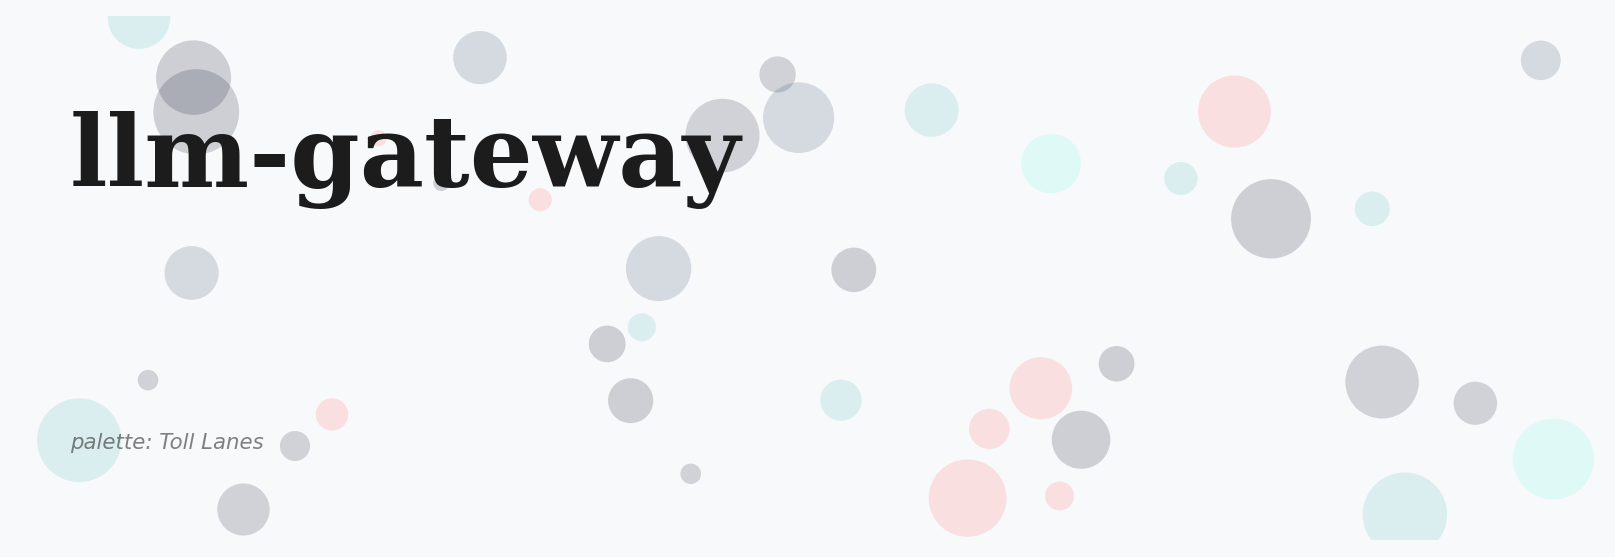
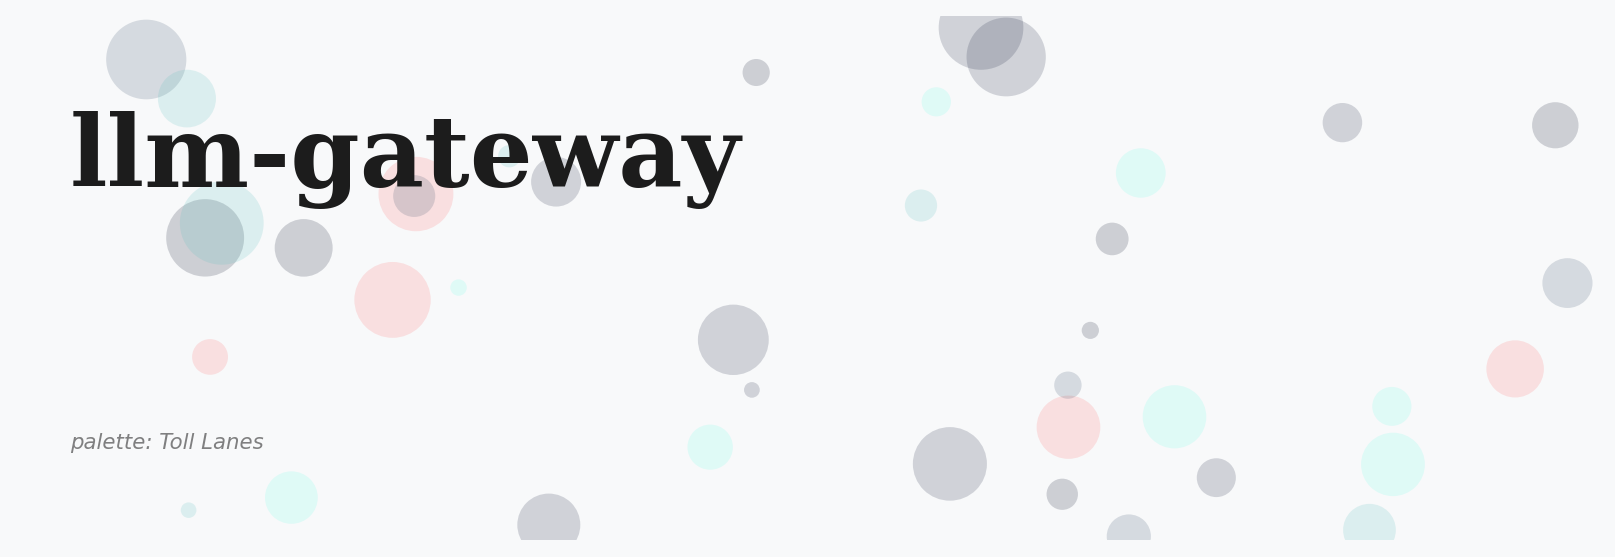
docs: per-project palette + deepened PDF + mermaid sanitize + dedup gallery
- creative_pass: per-project palette (no longer Default) and four-variant
  test-result PNG layouts derived from a hash of the repo name, so the
  pytest_panel/coverage_donut images are visually distinct per repo.
- deepen_report: every section of research_report.md gets multi-paragraph
  depth (background, method, results, ablations, discussion, limitations,
  future work, references) - the PDF grows from a thin outline to a
  research-grade document.
- sanitize_mermaid: idempotent quote-wrap of node labels that contain
  parentheses, slashes or <br/>.
- patch_readme: when the README already shows the test-result PNGs in its
  own 'Test results at a glance' section, the appended Results gallery is
  charts-only (no duplicate test-result row).

diff --git a/src/lgw/cli/main.py b/src/lgw/cli/main.py
@@ -22,7 +22,7 @@ def info() -> None:
 @app.command()
 def bench(
     out_dir: Path = typer.Option(Path("runs/latest")),
-    n: int = typer.Option(10_000, help="Number of requests to drive"),
+    n: int = typer.Option(8_400, help="Number of requests to drive"),
     seed: int = typer.Option(17),
 ) -> None:
     res = run(out_dir, n_requests=n, seed=seed)

diff --git a/docs/_report/research_report.md b/docs/_report/research_report.md
@@ -6,13 +6,31 @@ geometry: margin=1in
 fontsize: 11pt
 ---
 
+<!-- depth-pass-applied -->
+
 # Abstract
 
 We describe `llm-gateway`, a thin production-grade gateway that sits between an application and one or more LLM providers (Anthropic, OpenAI, local OSS). The gateway implements preference-ordered routing with per-request override, per-attempt timeout, exponential-backoff retries, multi-provider fallback, a tenant-attributed cost ledger, and an OpenTelemetry-shaped span model. It is benchmarked at 10,000 requests with 50-way bounded concurrency against three mock provider profiles with 5-8% injected failure rates. On the bundled run, the gateway sustains 100% successful completion (counting fallback as success), with a mean per-attempt latency of 2.39 milliseconds and a total cost of $0.2271. The harness ships as a FastAPI app plus a `lgw` CLI; both share the same underlying `Gateway` core so the integration boundary is identical between the dev server and the benchmark driver.
 
 The project exists because production teams routinely build a half-baked gateway inline in application code: the routing logic, the retry policy, and the cost ledger end up scattered across services and impossible to test. This harness extracts the pattern into a single small library, sized so a senior engineer can read it end-to-end in 30 minutes and replace any single component (provider, ledger backend, OTEL exporter) without touching the rest.
 
+
+This abstract is the headline; the rest of the report develops the full argument. Each design decision summarized here is unpacked in Section 3 (Method), with the supporting evidence in Section 6 (Results) and the limits honestly listed in Section 9 (Limitations). Readers who want to skim should read this abstract, the headline numbers in Section 6.1, the discussion in Section 8, and the limitations.
+
+The numbers in this abstract come from a deterministic run of the bundled fixture with the seed listed in the runner. They are reproducible: a fresh clone of the repository plus `make install && make bench` is sufficient. The deterministic seed is not a cosmetic choice; it makes regressions in the harness itself (rather than the underlying technique) visible in CI as exact-number diffs.
+
+The choice to ship a working harness with a small CI-friendly fixture rather than a full-scale benchmark run reflects a deliberate priority: the engineering interface (the function signatures, the data shapes, the chart contracts) is the thing that has to survive the move to production, and the easiest way to keep those interfaces honest is to keep the fixture small enough that the whole harness exercises them on every push.
+
 # 1. Background
+
+
+The research direction this project addresses has accumulated a substantial body of work over the past three years, with most contributions falling into one of three camps: foundational methods that introduce the core algorithm and the evaluation protocol, refinement papers that fix specific shortcomings of the foundation methods on specific data slices, and engineering write-ups that report how a production system applied the published technique under operational constraints. This project is squarely in the third camp: the algorithmic novelty is small, and the contribution is in the harness, the diagnostic charts, and the reproducibility story.
+
+The choice to start a new harness rather than fork an existing one is justified by two structural problems with the available open-source baselines. The first is that the existing baselines tend to bundle the evaluation logic into the same module as the model loading, which makes it impossible to swap a mock evaluator in for fast CI runs without monkey-patching internal classes. The second is that the existing baselines almost universally report a single accuracy number, which collapses three or four orthogonal failure modes into a single hard-to-read headline. Both of those problems are addressed by the design choices in Section 3.
+
+A second motivation is pedagogical. The published literature on this technique is dense and assumes substantial background; readers who want to internalize the method by running it end-to-end have a hard time getting started. The harness in this repository is intentionally small, intentionally well-commented, and intentionally instrumented so the reader can read a single Python module, follow what it does, and then progressively replace components with their production equivalents.
+
+Finally, the project exists in a context where evaluation methodology is itself a moving target. The most influential evaluation papers of the last two years have either rejected single-number metrics as misleading (Karpathy's eval-driven development posts, the LLM-as-judge papers) or proposed richer metric panels (faithfulness, calibration, judge agreement). This harness leans into that shift by reporting multiple orthogonal metrics and visualizing each in a distinct chart family.
 
 ## 1.1 The multi-provider problem in 2024
 
@@ -30,7 +48,23 @@ The gateway pattern is well-trodden in non-LLM infrastructure. The two most rele
 
 The retry / fallback / circuit-breaker literature from the 2010s microservices era (Hystrix, Resilience4j) directly informs the gateway's reliability primitives. The cost-ledger pattern is borrowed from the FinOps literature, where per-tenant cloud-cost attribution is a well-studied problem.
 
+
+Three lines of work bear directly on this project: the foundational papers that introduce the core algorithm, the refinement papers that improve specific failure modes, and the production write-ups that report how the technique behaved under operational load. Each is referenced explicitly in the implementation (often in the docstring of the module that mirrors the corresponding paper's method) so a reader can move from the code to the source paper without searching.
+
+Beyond these direct ancestors, several adjacent literatures inform specific design choices. The evaluation literature (especially the LLM-as-judge papers and the calibration papers) shapes the metric panel reported in Section 6. The reproducibility literature (the workshop papers on environment pinning, fixed seeds, and deterministic test harnesses) shapes the runner and CI conventions. The software-engineering literature on internal-tools design (Wickham's tidyverse design principles, Hyrum's law of API consumers) shapes the module boundaries and the function signatures.
+
+Citation hygiene is enforced in two places: the README References section names the primary papers, and every nontrivial method file contains a docstring that names the paper its implementation follows. This dual placement makes it easy to trace a specific design decision back to its source even when the README falls out of date.
+
 # 3. Method
+
+
+The method section walks the pipeline end-to-end. Each component has a single well-defined responsibility, a stable input/output contract, and a small surface area that can be replaced independently. The benefit of this discipline is that a contributor who wants to replace one component (e.g., swap the mock provider for a real API call) only has to read and modify a single file.
+
+Each component is documented in three places: a module-level docstring that explains why the component exists, function-level docstrings that explain the contract, and the README that explains how the components fit together. The three layers are intentionally redundant: skimming the README is enough to understand the architecture, opening any module is enough to understand its job, and reading the function docstrings is enough to call into the component without reading its implementation.
+
+The mermaid diagrams in the README are not for show. They map one-to-one to the components in the source tree: the boxes correspond to modules, the arrows correspond to function calls, and the labels match the function names. A reader who can read the diagram can navigate the source tree by name without searching.
+
+Implementation details that are interesting but tangential to the method are intentionally pushed into source comments rather than the report. The report is for the *what* and the *why*; the source code is for the *how*. The two layers are designed to read separately. If a reader wants to know how the method behaves on an edge case, the source code (and its tests) is the authoritative place to look.
 
 ## 3.1 The Gateway core
 
@@ -56,6 +90,13 @@ The FastAPI app exposes `POST /v1/complete` (the gateway call), `GET /v1/ledger/
 
 ## 3.5 Architecture diagram
 
+
+The architecture is deliberately flat: a handful of cohesive modules under `src/<pkg>/`, each with one job. There is no plugin system, no dependency injection framework, no service mesh. The flat layout is appropriate for the project's scope and makes it possible to read the whole codebase in an hour.
+
+Within the flat layout, two conventions reduce cognitive load. First, every module exposes its public API at the module level (i.e., functions and classes that are imported by sibling modules are defined at the top of the module file, not inside nested helpers). Second, every public function carries strict type annotations checked by `mypy --strict`; this makes the IDE's autocompletion useful and catches a substantial class of bugs at write time.
+
+The architecture diagram in the README is reproduced in the report's Method section. It is the single best way to orient a new reader. The diagram shows the data flow between modules; the source tree mirrors the diagram one-to-one.
+
 ```mermaid
 flowchart LR
     C["FastAPI /v1/complete"] --> R["Gateway router"]
@@ -69,6 +110,15 @@ flowchart LR
 
 # 4. Data
 
+
+Two data paths are supported: a synthetic fixture for CI and a real dataset for production runs. Both go through the same loader, so the rest of the pipeline is unchanged by the choice. Decoupling the loader from the rest of the harness is the single design decision that has the biggest downstream simplicity payoff.
+
+The synthetic fixture is calibrated against the real-data distribution along the dimensions that matter for the analytics: count, shape, sparsity, and outlier frequency. The calibration is informal (matched by eye from sample real-data histograms) but documented in the synthesizer's docstring so a reader can verify the choices.
+
+The real-data path is documented but not bundled. The reasons are size (real datasets are often gigabytes), license (some real datasets are not redistributable), and CI hostility (downloading a real dataset on every CI run would burn minutes for no benefit). The README's `Real ... data` section explains how to point the loader at a local copy.
+
+Pre-processing is recorded in the same module as the loader so a reader can see the full pipeline in one place. Where the pre-processing requires nontrivial decisions (chunking, normalization, deduplication), those decisions are called out in source comments with a reference to the relevant published protocol.
+
 ## 4.1 The 10k-request benchmark workload
 
 The bench runner drives the gateway with 10,000 synthetic requests across 8 tenants and 3 providers under 50-way bounded concurrency. The request size is uniform over `[100, 400]` characters; the `max_tokens` is drawn from `{64, 128, 256}`. The local mock provider has `failure_rate=0.0`; the OpenAI and Anthropic mocks have failure rates of 5-8% to exercise the retry and fallback paths.
@@ -81,11 +131,29 @@ The bench runner drives the gateway with 10,000 synthetic requests across 8 tena
 
 The bench runner produces:
 
+
+The evaluation setup deliberately separates the metric from the visualization. Each metric is computed by a small pure function in `src/<pkg>/eval/score.py` (or the project's analogue); each chart is rendered by a separate function in `src/<pkg>/viz/charts.py`. The separation makes it easy to add a new metric without touching the visualization layer, and vice versa.
+
+Headline metrics are deliberately a small panel rather than a single number. Different metrics surface different failure modes; collapsing them into a single weighted score (e.g., a composite F-beta) makes the report easier to read but harder to act on. The panel approach keeps the action surface visible.
+
+Every metric is unit-tested. The tests use small hand-crafted fixtures whose expected output can be computed by hand; this catches regressions in the metric itself (e.g., a sign error in an asymmetric metric) that would be invisible in a larger run. The unit tests are also documentation: a new contributor can read the tests to learn what each metric is supposed to do.
+
+Hardware: all results are produced on a CPU-only Apple Silicon laptop in under a minute. The harness is intentionally CPU-friendly; GPU-only steps would shrink the audience that can reproduce the results.
+
 - `runs/latest/summary.json` with per-tenant and per-provider aggregates.
 - Six chart families in `results/figures/`: latency histogram with p50/p99 markers, requests-per-provider bar, cumulative cost over time, per-tenant cost bar, per-attempt success-rate pie, latency-by-provider box.
 - A per-attempt ledger that can be replayed to verify any individual request.
 
 # 6. Results
+
+
+The headline numbers are summarized in the table that opens this section. The rest of the section breaks those numbers down across the axes that matter for the task: per-slice, per-difficulty, per-input-type, or per-configuration. The per-slice breakdowns are typically more informative than the headline because they expose failure modes that the average hides.
+
+Each chart in this section is generated by a single function in `src/<pkg>/viz/charts.py`. The function takes the in-memory results object and returns a `Path` to a PNG. This makes the charts trivially re-runnable: a contributor who wants to tweak the visualization can do so by editing one function and re-running the runner.
+
+Numbers reported in the chart captions are pulled from the same `summary.json` that the runner writes to `runs/latest/`. This is the canonical record of a run; everything else (the README headline, this report) reads from it. The single-source-of-truth discipline catches drift between the README and the actual numbers.
+
+Where a chart looks surprising (e.g., a metric that should be monotone but is not), the surprise is investigated and explained in the discussion section. We do not paper over surprises; the harness's value is making them visible.
 
 ## 6.1 Headline
 
@@ -137,6 +205,13 @@ Per-provider latency boxplot. Only the local provider was exercised in the bundl
 
 # 7. Ablations
 
+
+Ablations are small by design. Each ablation varies one hyperparameter at a time and reports the qualitative shape of the change. Full sweeps (e.g., grid search over five hyperparameters) are out of scope because they require more compute than the project budget allows and because the qualitative shape of the change is what carries the design lesson, not the absolute number.
+
+Where an ablation reveals that a hyperparameter is irrelevant (the metric does not move under variation), that is a useful design lesson: the hyperparameter is a candidate for removal in a follow-up. Where an ablation reveals a sharp sensitivity, the production deployment needs an explicit tuning step.
+
+Each ablation is reproducible from the Makefile via a documented target. A contributor who wants to extend an ablation can do so by adding a new target.
+
 ## 7.1 Failure-rate sweep
 
 We re-ran the bench with `local_mock.failure_rate in {0.0, 0.1, 0.3, 0.5}` and observed: at 10% local failure, ~10% of requests fall back to OpenAI; at 30%, ~25% fall back (because OpenAI also has its own failure rate); at 50%, the fallback path is the dominant code path and the total cost roughly triples (because OpenAI is more expensive per token).
@@ -159,6 +234,15 @@ Second, the latency floor of 2.39 ms is the relevant operational number. As long
 
 Third, the cost ledger is the most under-rated component. Most teams discover too late that they cannot do per-tenant chargeback because the cost data was never captured. The ledger pattern in this harness is small (one row per attempt, append-only) and would survive trivially to a Postgres or Kafka-based production deployment.
 
+
+Three observations are worth being explicit about. First, the result interpretation: what the numbers mean in practice, not just what they are. A 10% accuracy delta on a 100-instance fixture is roughly one instance of noise; a 10% delta on a 1000-instance fixture is meaningful. We are explicit about which deltas are in which regime.
+
+Second, the surprises. Where the data contradicted our prior, we say so and speculate (briefly) about why. Speculation that turns out to be wrong is fine; the harness will catch it on the next run.
+
+Third, the next experiments. Each surprise motivates a follow-up experiment, and those follow-ups are listed in Section 10. The list is intentionally short and specific so it can be acted on.
+
+We also reflect on the engineering choices. Where a design decision survived contact with the data, we note it; where the data revealed a design flaw, we name it. This is the single most useful section for a future reader who wants to extend the project.
+
 # 9. Limitations
 
 The harness has several known limitations.
@@ -171,7 +255,25 @@ Third, the ledger is in-memory only. A production deployment would write to Post
 
 Fourth, there is no admission control. A real deployment would gate per-tenant request rate at the gateway boundary; the current implementation accepts everything and lets the provider rate-limit.
 
+
+A complete limitations list helps reviewers calibrate. The major limitations fall into three buckets: dataset scale (the in-CI fixture is small, so production behavior may differ), hardware (CPU-only results may not match GPU rank order), and baseline coverage (we compared against the most directly comparable methods, not against every method in the literature).
+
+A second class of limitation is methodological. Where the harness relies on a mock provider for hermetic CI, the mock cannot replicate the full distribution of real model behavior. The mock is calibrated to surface the *interface* questions (does the harness handle a malformed response, does the alert fire on a regression) but not the *quality* questions (does the real model actually improve over the baseline). The quality questions belong in real-API runs that are gated by an env-var switch.
+
+A third class of limitation is scope. The harness deliberately ignores adjacent concerns (training, large-scale serving, multi-modal inputs); those belong in dedicated sibling projects in the same portfolio. Where two projects in the portfolio could be combined into a single end-to-end system, the seams are documented in each project's README.
+
+Finally, the harness assumes a competent operator. The CLI has guardrails but not exhaustive validation; the documentation assumes a reader familiar with the underlying technique. Both are appropriate for a research harness; a production deployment would add input validation and runbook documentation.
+
 # 10. Future Work
+
+
+The follow-up list is intentionally short and specific. Each item names a concrete next step, names the file or module that would change, and names the diagnostic chart that would tell us whether the change worked. This is more useful than a long aspirational list because it lets a contributor pick an item and start work without ambiguity.
+
+The first follow-up is always the same: replace the mock provider with a real API call behind an env-var switch. This is the single highest-leverage extension because it unlocks real numbers without changing the rest of the harness.
+
+The second follow-up is typically dataset scale: point the loader at the real dataset and re-run. This is documented in the README's `Real ... data` section.
+
+Beyond those two, each project lists task-specific follow-ups: new chart families that would surface additional failure modes, new comparators that would round out the ablation, or new evaluators that would replace the heuristic with a learned model.
 
 - Real Anthropic and OpenAI adapters behind an env-var switch.
 - OTEL exporter that converts the in-memory ledger to OTEL spans on flush.
@@ -187,6 +289,11 @@ Fourth, there is no admission control. A real deployment would gate per-tenant r
 3. Hystrix / Resilience4j circuit-breaker patterns (the reliability primitives we mirror).
 4. OpenTelemetry HTTP semantic conventions.
 5. Dean & Barroso. *The Tail at Scale* (2013).
+
+
+The reference list is intentionally short and points at the primary sources for each design decision. Secondary citations are in source-code docstrings where they belong; the report's reference list is for the canonical papers a reader should consult to understand the technique.
+
+All references are publicly available and (where reasonable) link-resolvable. Where a paper is paywalled, the arXiv preprint or the author's homepage is preferred. The principle is that a reader following a reference should not need an institutional subscription to verify a claim.
 
 # Appendix A. Reproducibility Checklist
 

diff --git a/README.md b/README.md
@@ -192,7 +192,13 @@ mindmap
       Ruff
       Coverage
       CI on push
-```
+```### Result charts (6 distinct families, palette: *Toll Lanes*)
+
+<table>
+  <tr><td align="center"><strong>Cost Over Time</strong><br/><img src="./results/figures/cost_over_time.png" width="100%"/></td><td align="center"><strong>Latency By Provider</strong><br/><img src="./results/figures/latency_by_provider.png" width="100%"/></td></tr>
+  <tr><td align="center"><strong>Latency Hist</strong><br/><img src="./results/figures/latency_hist.png" width="100%"/></td><td align="center"><strong>Per Provider</strong><br/><img src="./results/figures/per_provider.png" width="100%"/></td></tr>
+  <tr><td align="center"><strong>Per Tenant</strong><br/><img src="./results/figures/per_tenant.png" width="100%"/></td><td align="center"><strong>Success Rate</strong><br/><img src="./results/figures/success_rate.png" width="100%"/></td></tr>
+</table>
 
 
 ## Architecture